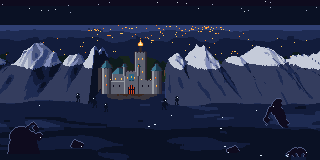
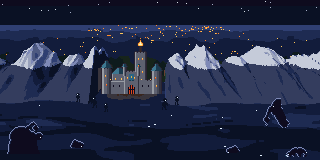
Lanternhold panels fix 1: slide 1's creatures with the moon's rim and a second step, the near smoke in taller banks

diff --git a/games/lanternhold/tools/slides/slide_wall.py b/games/lanternhold/tools/slides/slide_wall.py
@@ -63,7 +63,8 @@ def smoke(X, Z):
     """The Gloom's smoke over the near side: rolling banks, higher toward us, lapping at the wall's foot."""
     b = fbm(X * 0.0065 / Z ** 0.4, Z * 4.2, 551, 3)
     roll = max(0.0, b - 0.32) * 1.7
-    return 0.012 + 0.07 * roll * (0.45 + 0.55 * min(1.0, (ZW - Z) * 1.3))
+    near = max(0.0, 1.45 - Z) * 2.2
+    return 0.012 + 0.07 * roll * (0.45 + 0.55 * min(1.0, (ZW - Z) * 1.3)) * (1.0 + near)
 
 
 def project(X, Z, h):
@@ -495,7 +496,9 @@ def creature(c, name, frames, frame, x0, base, flip=False, sink=0):
                 body[(x0 + x, y0 + y)] = P("night0")
     for (x, y) in list(body):
         if (x - 1, y) not in body or (x, y - 1) not in body:
-            body[(x, y)] = P("far")
+            body[(x, y)] = P("moon")
+        elif (x - 2, y) not in body or (x, y - 2) not in body:
+            body[(x, y)] = P("nightBlue")
     for y in range(h - sink):
         for x in range(w):
             sx = w - 1 - x if flip else x
